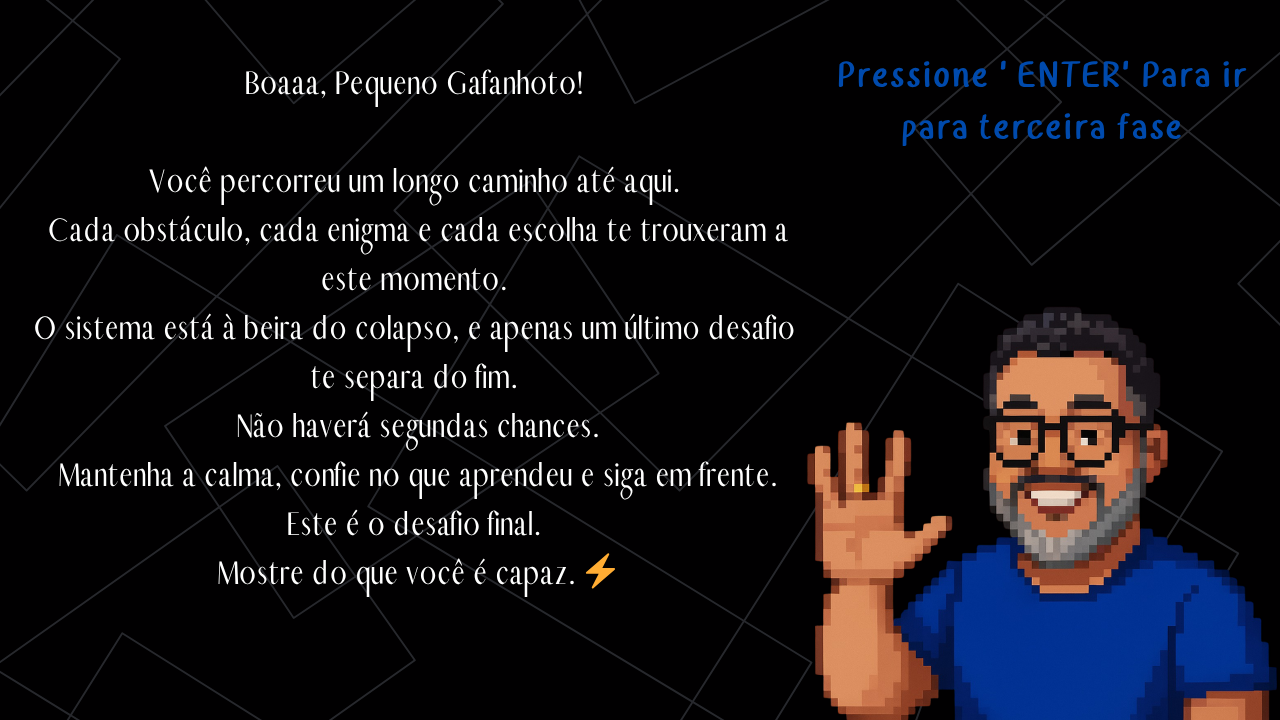
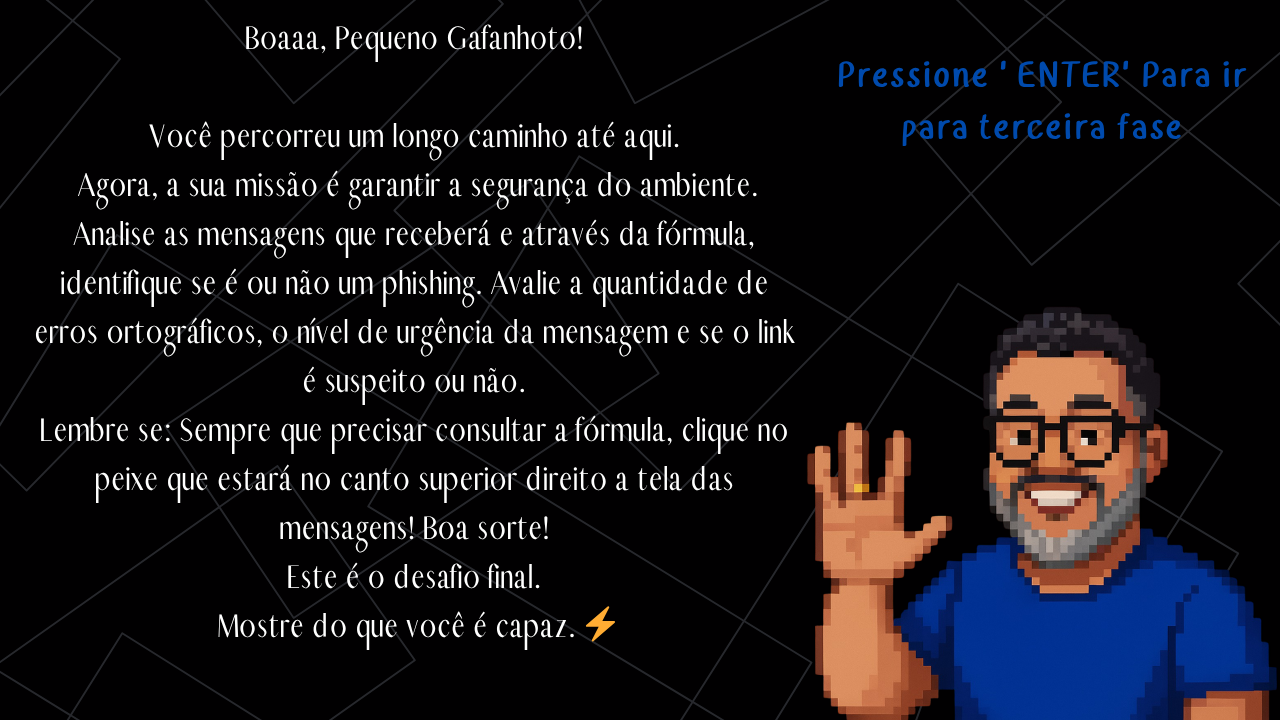
novas funcionalidades

diff --git a/HACKING THE SYSTEM/main.c b/HACKING THE SYSTEM/main.c
@@ -156,6 +156,17 @@ int main() {
     legitimo.btn_y1 = 600;
     legitimo.btn_y2 = 653;
 
+    struct botao try;
+    try.btn_x1 = 840;
+    try.btn_x2 = 1055;
+    try.btn_y1 = 600;
+    try.btn_y2 = 653;
+
+    struct botao exit;
+    exit.btn_x1 = 840;
+    exit.btn_x2 = 1055;
+    exit.btn_y1 = 600;
+    exit.btn_y2 = 653;
     //-----------------------------------------------------------------//
 
     //STRUCT PARA TELA DE PROXIMA FASE
@@ -273,7 +284,8 @@ int main() {
 	ALLEGRO_BITMAP* sprite = al_load_bitmap("PERSONAGEM.png");
     ALLEGRO_BITMAP* tela_phishing1 = al_load_bitmap("PHISHING(pagamento).png");
     ALLEGRO_BITMAP* tela_phishing2 = al_load_bitmap("LEGITIMO(entrega).png");
-
+	ALLEGRO_BITMAP* phishing_consulta = al_load_bitmap("PHISHING_CONSULTA.png");
+	ALLEGRO_BITMAP* erro_fase3 = al_load_bitmap("ERRO_FASE3.png");
 
 
     ALLEGRO_EVENT_QUEUE* fila_eventos = al_create_event_queue(); // criação da fila de eventos
@@ -636,6 +648,7 @@ int main() {
 
     //TELA COM A FASE 3
     if (tela == 16) {
+        respostas_fase3 = 0;
         al_clear_to_color(al_map_rgb(148, 0, 144));
         al_draw_bitmap(fase_3, 0, 0, 0);
         //al_draw_filled_rectangle(play.btn_x1, play.btn_y1, play.btn_x2, play.btn_y2, al_map_rgb(255, 154, 32));
@@ -645,21 +658,22 @@ int main() {
     }
 
     //TELA MENSAGENS
+	
 
     if (tela == 17) {
         al_draw_bitmap(tela_phishing1, 0, 0, 0);
 
         if (evento.type == ALLEGRO_EVENT_MOUSE_BUTTON_DOWN && (evento.mouse.button & 1)) {
             if (mouseX >= peixe.btn_x1 && mouseX <= peixe.btn_x2 && mouseY >= peixe.btn_y1 && mouseY <= peixe.btn_y2) {
-                tela = 16;
+                tela = 19;
                 continue;
             }
             if (mouseX >= phishing.btn_x1 && mouseX <= phishing.btn_x2 && mouseY >= phishing.btn_y1 && mouseY <= phishing.btn_y2) {
-                respostas_fase3++;
                 tela = 18;
                 continue;
             }
             if (mouseX >= legitimo.btn_x1 && mouseX <= legitimo.btn_x2 && mouseY >= legitimo.btn_y1 && mouseY <= legitimo.btn_y2) {
+                respostas_fase3++;
                 tela = 18;
                 continue;
             }
@@ -670,6 +684,10 @@ int main() {
         al_draw_bitmap(tela_phishing2, 0, 0, 0);
 
         if (evento.type == ALLEGRO_EVENT_MOUSE_BUTTON_DOWN && (evento.mouse.button & 1)) {
+            if (mouseX >= peixe.btn_x1 && mouseX <= peixe.btn_x2 && mouseY >= peixe.btn_y1 && mouseY <= peixe.btn_y2) {
+                tela = 20;
+                continue;
+            }
 
             if (mouseX >= phishing.btn_x1 && mouseX <= phishing.btn_x2 && mouseY >= phishing.btn_y1 && mouseY <= phishing.btn_y2) {
                 tela = 15;
@@ -678,25 +696,45 @@ int main() {
 
             if (mouseX >= legitimo.btn_x1 && mouseX <= legitimo.btn_x2 && mouseY >= legitimo.btn_y1 && mouseY <= legitimo.btn_y2) {
                 respostas_fase3++;
-                if (respostas_fase3 >= 2) {
-                    tela = 25;
-                }
-                else
+                if(respostas_fase3 == 2)
                 {
-                    tela = 15;
-                }
+                    tela = 25; //TELA FINAL DO JOGO
+                } else {
+                    tela = 21; // TELA DE ERRO FASE 3
+				}
                 continue;
             }
         }
     }
-    
+
+    if (tela == 19) {
+        al_draw_bitmap(phishing_consulta, 0, 0, 0);
+        if (evento.keyboard.keycode == ALLEGRO_KEY_ESCAPE) {
+            tela = 17;
+        }
+    }
+
+    if (tela == 20) {
+        al_draw_bitmap(phishing_consulta, 0, 0, 0);
+        if (evento.keyboard.keycode == ALLEGRO_KEY_ESCAPE) {
+            tela = 18;
+        }
+    }
+
+    if (tela == 21) {
+        al_draw_bitmap(erro_fase3, 0, 0, 0);
+        
+    }
+
+
     
     //--------------TELA FINAL-------------------//
 
     
     if (tela == 25) {
-        al_draw_bitmap(tela_final, 0, 0, 0);    
-   }
+        al_draw_bitmap(tela_final, 0, 0, 0);  
+
+     }
 
 
 
@@ -729,6 +767,7 @@ al_destroy_bitmap(guanabara_fase3);
 al_destroy_bitmap(fase_2);
 al_destroy_bitmap(fase_3);
 al_destroy_bitmap(tela_phishing1);
+al_destroy_bitmap(erro_fase3);
 
 
 return 0;
